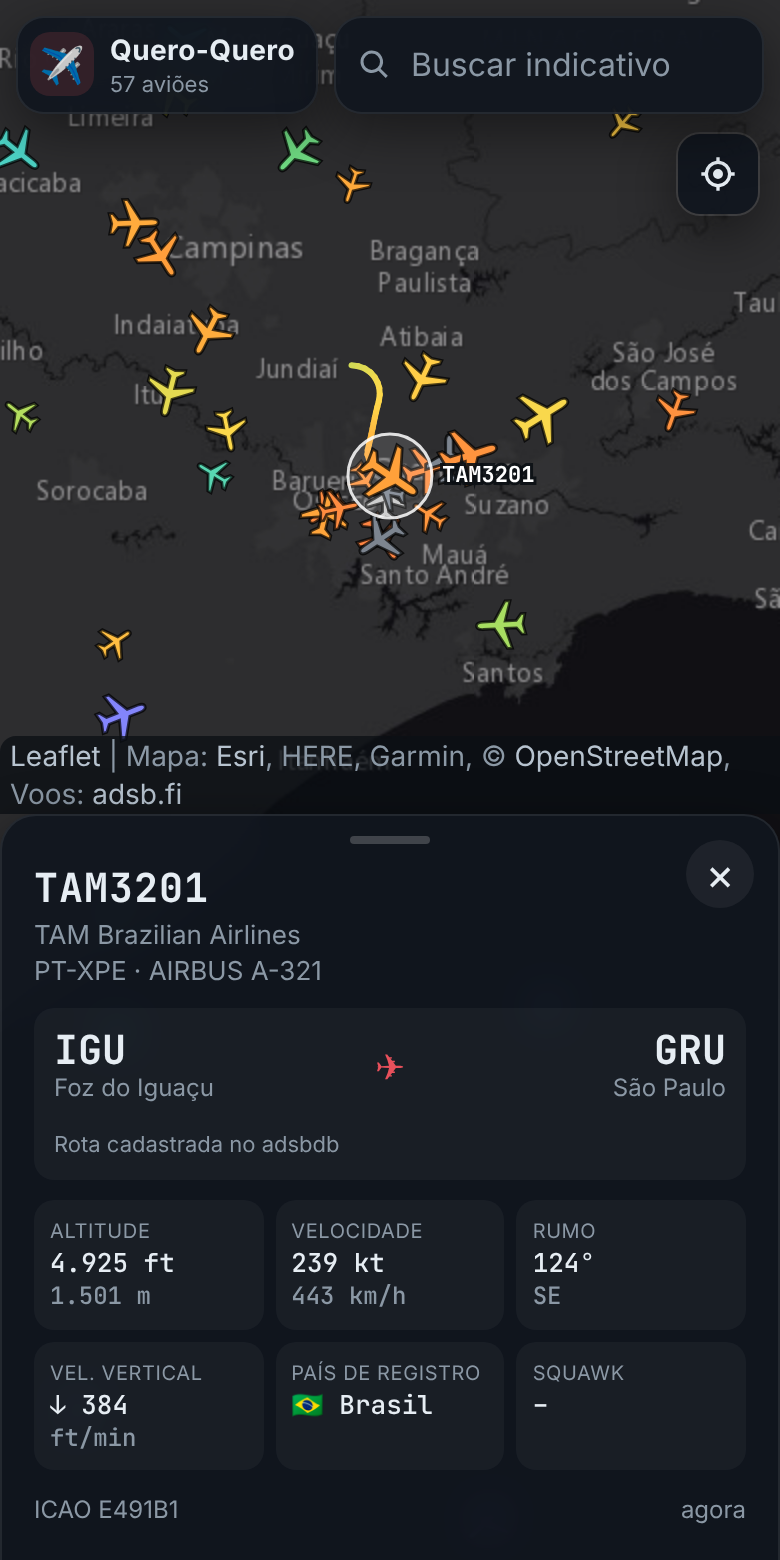
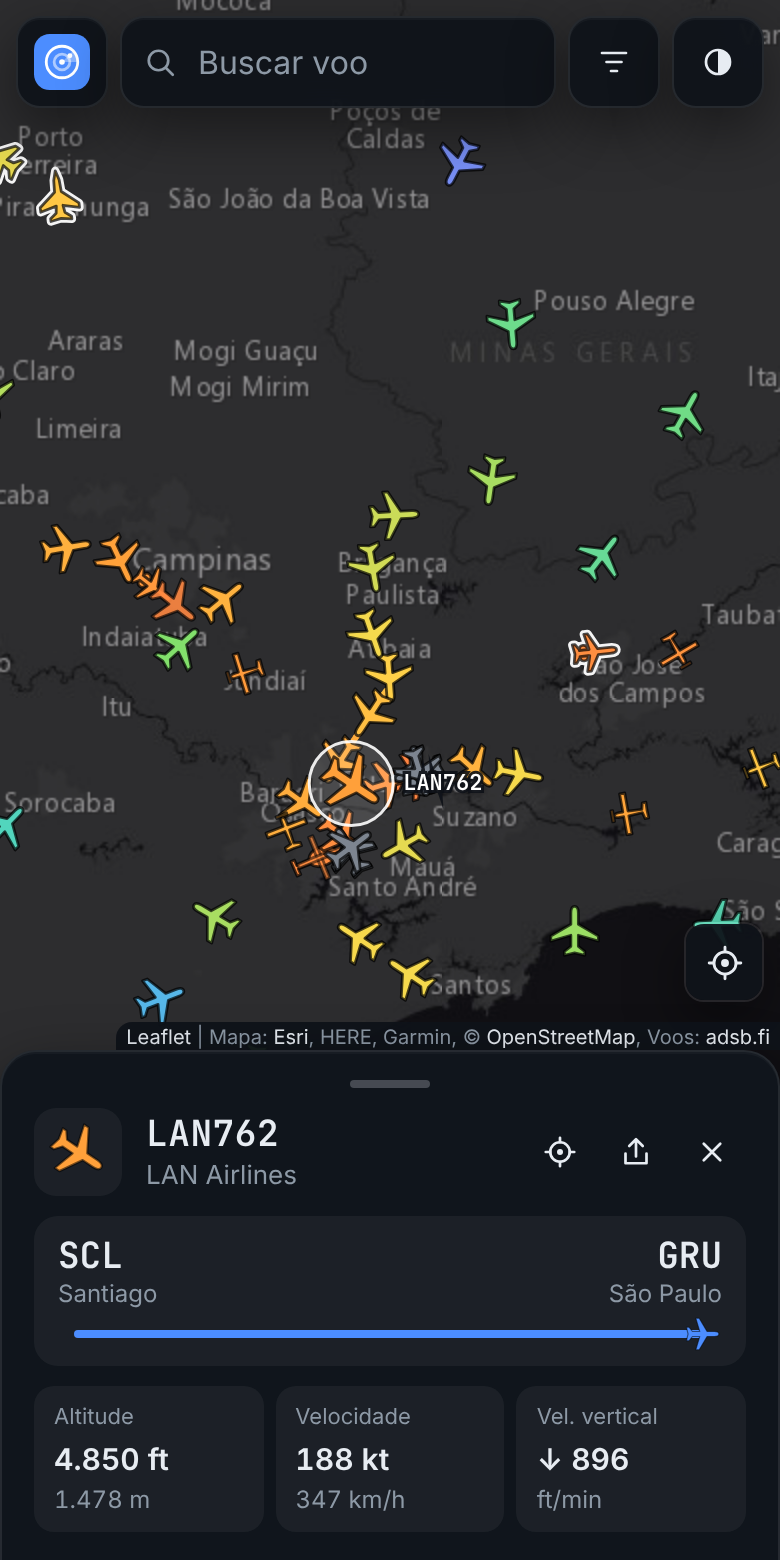
Atualiza README e prints com o novo visual
Claude-Session: https://claude.ai/code/session_01BzwVKo4MjDyfSTkuBQzErr

diff --git a/README.md b/README.md
@@ -10,7 +10,7 @@ Rastreador de voos em tempo real feito com **HTML, CSS e JavaScript puros**: avi
 ![Leaflet](https://img.shields.io/badge/Leaflet-199900?style=for-the-badge&logo=leaflet&logoColor=white)
 ![Cloudflare Workers](https://img.shields.io/badge/Cloudflare_Workers-F38020?style=for-the-badge&logo=cloudflare&logoColor=white)
 
-<img src="assets/preview.png" alt="Mapa escuro de São Paulo com aviões coloridos pela altitude e o painel de um voo aberto, com rota, altitude, velocidade e rastro" width="760">
+<img src="assets/preview.png" alt="Mapa escuro de São Paulo com aviões coloridos pela altitude e o painel de um voo aberto, com rota, progresso, altitude, velocidade e rastro" width="760">
 <br><br>
 
 [![Testar no navegador](https://img.shields.io/badge/▶_Testar_no_navegador-0B0F14?style=for-the-badge)](https://erickfuzer.github.io/QueroQuero/)
@@ -19,33 +19,39 @@ Rastreador de voos em tempo real feito com **HTML, CSS e JavaScript puros**: avi
 
 ## Funcionalidades
 
-- **Aviões em tempo real** sobre um mapa escuro, girando conforme o rumo e atualizados a cada 10 s
-- **Movimento suave:** entre uma atualização e outra o avião segue em frente pela velocidade e pelo rumo, e desliza até a posição nova em vez de pular
-- **Painel do voo:** indicativo, companhia, matrícula, modelo, altitude, velocidade, rumo, velocidade vertical, país de registro e squawk
+- **Aviões em tempo real** girando conforme o rumo e atualizados a cada 10 s, com **movimento suave** entre uma atualização e outra
+- **Ícone por tipo de aeronave:** jato comercial, grande porte, regional ou executivo, aviação leve, helicóptero (com rotor girando), caça, planador, drone, balão e veículo em solo. **Militares** ganham um contorno de destaque
+- **Tema claro e escuro:** segue o sistema por padrão, com opção de fixar um dos dois; o mapa e a interface trocam juntos
+- **Painel do voo:** indicativo, companhia, tipo, altitude, velocidade, velocidade vertical, rumo, squawk (com alerta de emergência), posição, matrícula, modelo, código ICAO e país de registro
+- **Rota com progresso:** origem, destino, quanto já foi percorrido e quanto falta, quando a rota está cadastrada no adsbdb e confere com a posição do avião; quando não há rota confiável, o painel diz isso em vez de inventar
 - **Rastro recente** desenhado no mapa, colorido pela altitude de cada trecho
-- **Origem e destino** quando a rota está cadastrada no adsbdb e confere com a posição do avião; quando não há rota confiável, o painel diz isso em vez de inventar
-- **Busca** por indicativo, matrícula ou código ICAO, com sugestões e navegação pelo teclado
-- **Cor pela altitude** com legenda, e **filtro** de altitude mínima e máxima
+- **Seguir:** o mapa acompanha o avião selecionado
+- **Compartilhar:** gera um link que abre o mapa já com o voo selecionado
+- **Busca** por indicativo, matrícula ou código ICAO, com sugestões e atalho <kbd>/</kbd>
+- **Filtros** por tipo de aeronave e por altitude mínima e máxima, com legenda de cores
 - **Sua localização** no início (com permissão) e no botão de mira; sem ela, o mapa abre sobre São Paulo
 - **Avisos amigáveis** quando o limite gratuito estoura ou a fonte de dados falha, com nova tentativa automática
-- **Economia:** busca só a área visível do mapa e pausa tudo quando a aba fica oculta
-- **Responsivo:** no celular o painel vira uma folha inferior e o rodapé do mapa sobe junto, sem cobrir nada
+- **Economia:** busca só a área visível do mapa, só refaz a busca quando a área muda de verdade e pausa tudo quando a aba fica oculta
+- **Celular:** o painel vira uma folha inferior; arraste para cima para ver tudo, para baixo para recolher ou fechar
 
 <details>
-<summary>Ver no celular</summary>
+<summary>Ver no tema claro e no celular</summary>
 <br>
-<img src="assets/preview-mobile.png" alt="Versão mobile com o painel do voo como folha inferior e o avião selecionado acima dela" width="260">
+<img src="assets/preview-claro.png" alt="O mesmo mapa no tema claro, com o painel do voo aberto" width="760">
+<br><br>
+<img src="assets/preview-mobile.png" alt="Versão mobile com o painel do voo como folha inferior compacta e o avião selecionado acima dela" width="260">
 </details>
 
 ## Como funciona
 
 - **Dados:** as APIs gratuitas de ADS-B (adsb.fi, airplanes.live, adsb.lol, OpenSky) não liberam CORS, então o navegador não consegue lê-las direto de uma página no GitHub Pages. Um proxy pequeno no **Cloudflare Workers** (`proxy/worker.js`, plano gratuito) faz a consulta, tenta as fontes em sequência e devolve só os campos usados, já com os cabeçalhos de CORS.
-- **Área visível:** as APIs consultam por raio, então o app calcula o círculo que cobre o mapa na tela (até 250 milhas náuticas) e refaz a busca ao arrastar ou dar zoom, no máximo uma vez a cada 3 s.
-- **Desenho:** os aviões são desenhados num `<canvas>` por cima do Leaflet, o que mantém a animação leve mesmo com centenas de aeronaves. O clique procura o avião mais próximo do ponto tocado.
-- **Interpolação:** cada quadro estima a posição por `velocidade × tempo` no rumo atual. Quando chega um dado novo, a diferença entre o que estava na tela e a posição real some ao longo de 1,5 s.
+- **Área visível:** as APIs consultam por raio, então o app calcula o círculo que cobre o mapa na tela (até 250 milhas náuticas). Ao arrastar ou dar zoom, só busca de novo se o centro andou mais de um quarto do raio ou o zoom mudou o raio, e no máximo uma vez a cada 3 s.
+- **Desenho:** os aviões são desenhados num `<canvas>` por cima do Leaflet, o que mantém a animação leve mesmo com centenas de aeronaves. Cada silhueta é um traçado SVG usado tanto no canvas (`Path2D`) quanto nos ícones da interface. Os nomes dos voos que cairiam um em cima do outro são pulados.
+- **Tipo de aeronave:** vem da categoria que o próprio transponder informa (A1 leve, A3 comercial, A5 grande porte, A7 helicóptero, B6 drone…). Quando ela não vem, o app tenta pelo modelo e pelo fabricante. A marcação de militar vem da base de aeronaves das redes de receptores.
+- **Interpolação:** cada quadro estima a posição por `velocidade × tempo` no rumo atual, sem arredondar para o pixel. Quando chega um dado novo, a diferença entre o que estava na tela e a posição real some ao longo de 1,5 s.
 - **Rastro:** as APIs gratuitas não entregam o histórico do voo, então o app guarda as posições recebidas desde que a página foi aberta (até cerca de 1 hora por avião).
 - **País de registro:** sai do endereço ICAO de 24 bits do transponder, pelas faixas que a ICAO reserva para cada país (o Brasil vai de `E40000` a `E7FFFF`).
-- **Rota:** vem do adsbdb pelo indicativo. Como a base é colaborativa e às vezes está velha, o app só mostra a rota se o avião estiver num caminho plausível entre origem e destino.
+- **Rota:** vem do adsbdb pelo indicativo. Como a base é colaborativa e às vezes está velha, o app só mostra a rota se o avião estiver num caminho plausível entre origem e destino. O progresso é a distância já voada sobre a soma da voada com a que falta.
 
 ## Como usar
 
@@ -67,6 +73,8 @@ O app precisa do proxy no ar para receber os voos. Leva uns 2 minutos e é gratu
 2. Vá em **Workers & Pages → Create → Worker**, dê o nome `queroquero` e clique em **Deploy**
 3. Clique em **Edit code**, troque o conteúdo pelo de `proxy/worker.js` e clique em **Deploy** de novo
 
+Sempre que o `proxy/worker.js` mudar no repositório, repita o passo 3 para o Worker ficar igual.
+
 O endereço fica `https://queroquero.erickfuzer.workers.dev`, que já é o configurado no `script.js`. Se usar outro nome, troque `proxy` no início do `script.js` ou passe pela URL: `index.html?proxy=https://seu-proxy.workers.dev`.
 
 > O proxy só atende o GitHub Pages do projeto, `localhost` e o `index.html` aberto direto do disco. Para publicar em outro domínio, acrescente-o em `ORIGENS` no `worker.js`.
@@ -75,9 +83,9 @@ O endereço fica `https://queroquero.erickfuzer.workers.dev`, que já é o confi
 
 ```
 QueroQuero/
-├── index.html        # estrutura da página, painel e legenda
-├── style.css         # tema escuro, painel, folha inferior e versão mobile
-├── script.js         # mapa, busca de dados, interpolação, desenho, painel, busca e filtro
+├── index.html        # estrutura da página, painel, filtros e legenda
+├── style.css         # temas claro e escuro, painel, folha inferior e versão mobile
+├── script.js         # mapa, dados, interpolação, ícones por tipo, painel, busca, filtros e tema
 ├── proxy/
 │   └── worker.js     # proxy para o Cloudflare Workers (CORS, fontes e cache)
 ├── assets/           # prints do README e da prévia de link
@@ -90,9 +98,9 @@ QueroQuero/
 - Dados de voo: [adsb.fi](https://adsb.fi), com [airplanes.live](https://airplanes.live) e [adsb.lol](https://adsb.lol) como reserva, todos mantidos por redes de receptores voluntários
 - Rotas e companhias: [adsbdb](https://www.adsbdb.com)
 - Mapa interativo: [Leaflet](https://leafletjs.com)
-- Mapa base: Esri World Dark Gray Canvas ([Esri](https://www.esri.com), HERE, Garmin, © [colaboradores do OpenStreetMap](https://www.openstreetmap.org/copyright) e comunidade de usuários de SIG)
+- Mapas base: Esri World Dark Gray Canvas e World Light Gray Canvas ([Esri](https://www.esri.com), HERE, Garmin, © [colaboradores do OpenStreetMap](https://www.openstreetmap.org/copyright) e comunidade de usuários de SIG)
 
-Desenvolvido com o auxílio do [Claude](https://claude.ai) (Anthropic) na escolha das fontes de dados, no proxy, na interpolação dos aviões e na versão mobile.
+Desenvolvido com o auxílio do [Claude](https://claude.ai) (Anthropic) na escolha das fontes de dados, no proxy, na interpolação dos aviões, nos ícones por tipo e no redesenho da interface.
 
 ## Licença
 
